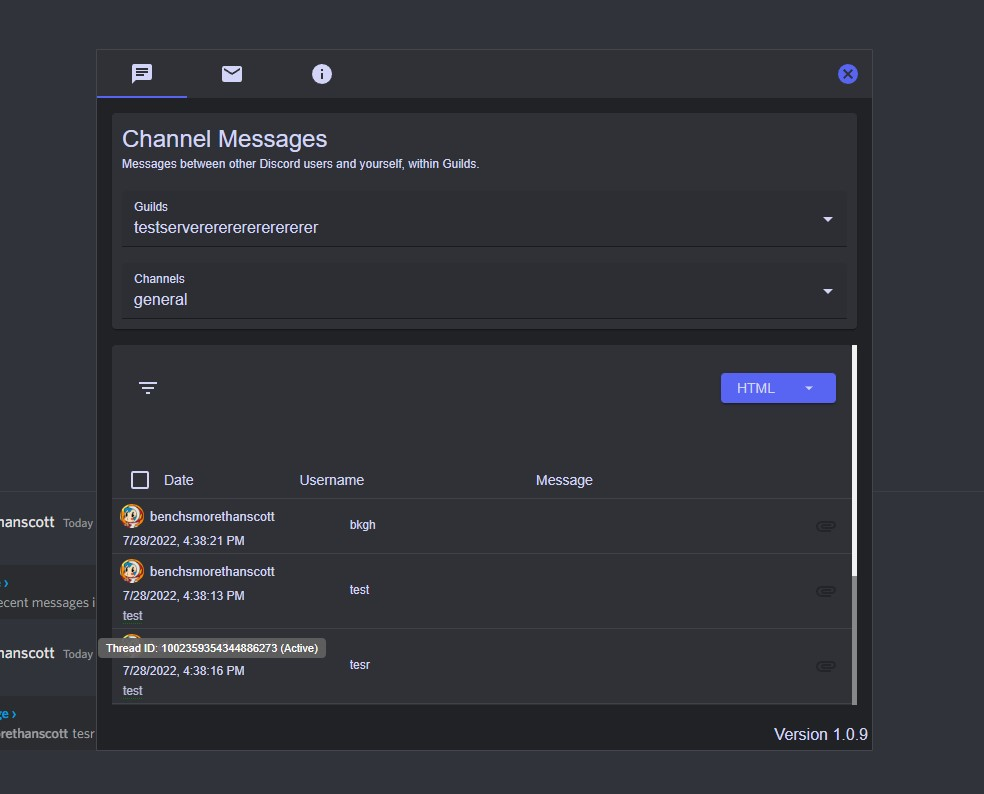
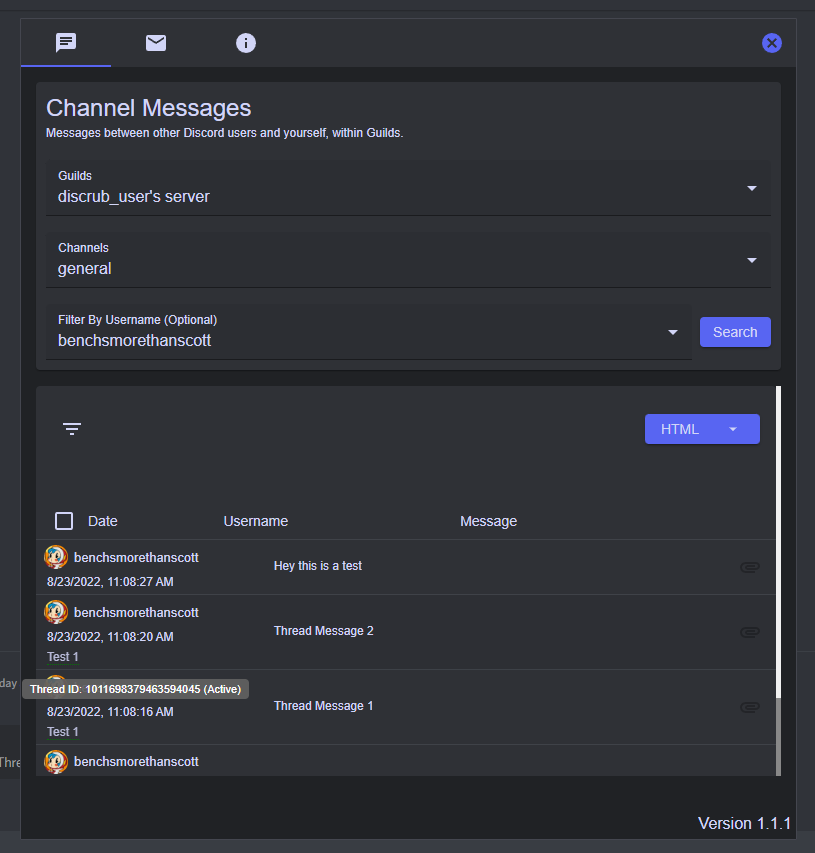
Update screenshots, increase version to 1.1.1, and update changelog

diff --git a/src/components/InjectedDialog/InjectedDialog.jsx b/src/components/InjectedDialog/InjectedDialog.jsx
@@ -46,7 +46,7 @@ function InjectedDialog() {
       {menuIndex === 1 && <DirectMessages />}
       {menuIndex === 2 && <About />}
       <Box className={classes.box}>
-        <Typography>Version 1.1.0</Typography>
+        <Typography>Version 1.1.1</Typography>
       </Box>
       <CloseWindowButton />
     </Box>
